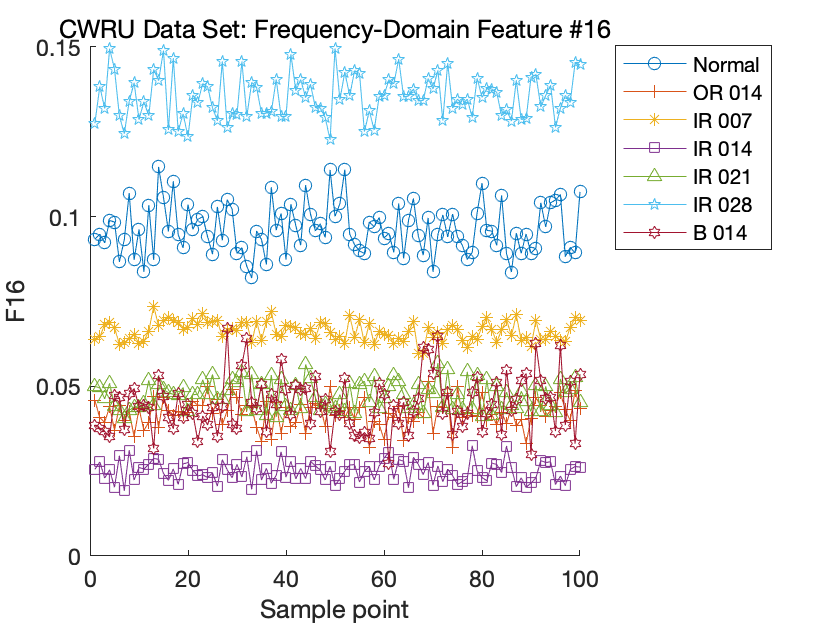
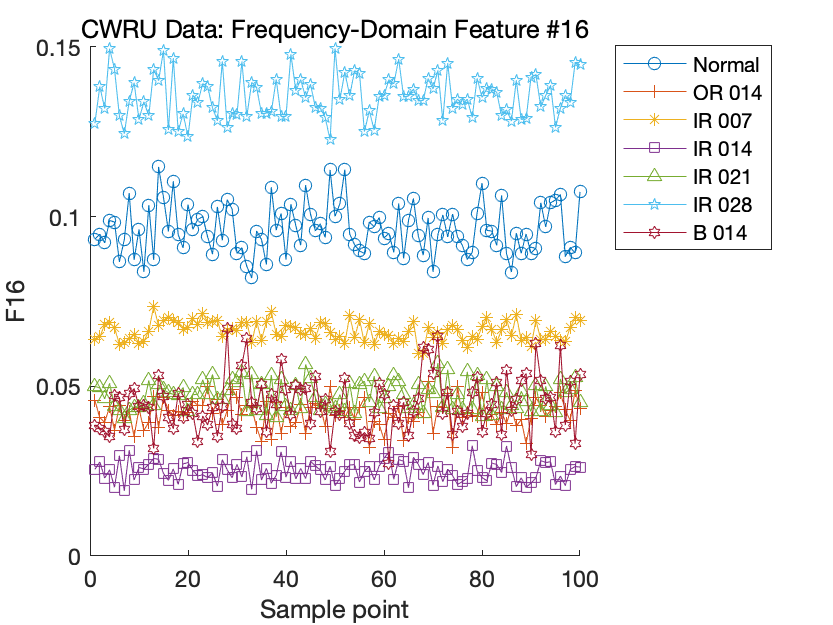
Visualise the frequency-domain features of the CWRU data set

Changed region(s): [[0.0624, 0.0304, 0.7491, 0.0608]]

diff --git a/src/visualization/CWRU_freq_features.m b/src/visualization/CWRU_freq_features.m
@@ -81,7 +81,7 @@ for f=1:F
     plot(F_freq_a5(f, :), 'Marker' , '^');
     plot(F_freq_a6(f, :), 'Marker' , 'p');
     plot(F_freq_a7(f, :), 'Marker' , 'h');
-    title(strcat('CWRU Data Set: Frequency-Domain Feature #', num2str(6 + f)));
+    title(strcat('CWRU Data: Frequency-Domain Feature #', num2str(6 + f)));
     xlabel('Sample point');
     ylabel(strcat('F', num2str(6 + f)));
     legend('Normal', 'OR 014', 'IR 007', 'IR 014', 'IR 021', 'IR 028', 'B 014', 'Location', 'northeastoutside');
